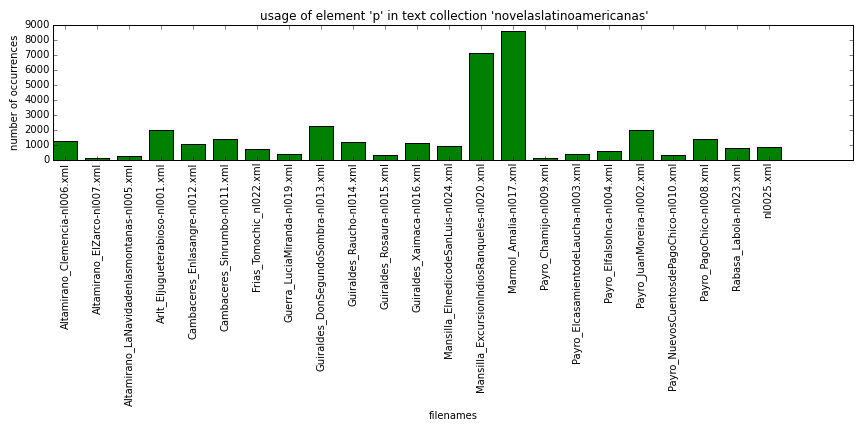
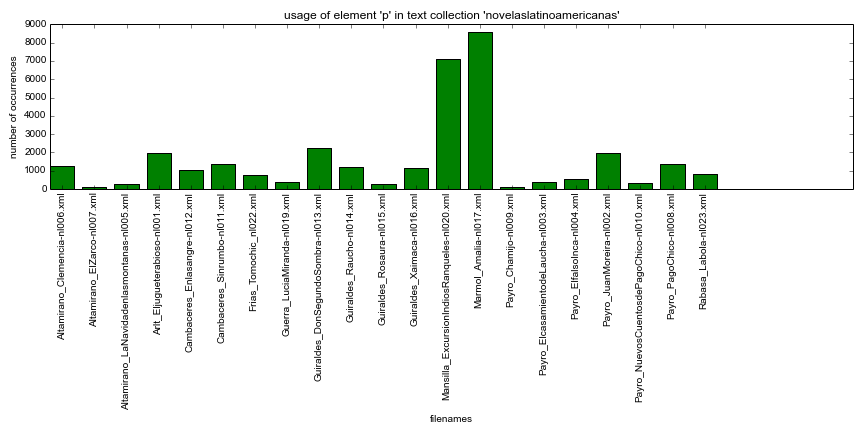
filename mit os.path.basename finden

Changed region(s): [[0.0, 0.0301, 0.9688, 0.9931]]

diff --git a/elements_used/elements-used.py b/elements_used/elements-used.py
@@ -21,6 +21,7 @@ Created on Thu May 21 15:57:56 2015
 # Import statements   #
 #######################
 
+import os
 import glob
 import json
 import numpy as np
@@ -65,7 +66,8 @@ def get_fileinfos(collection_name):
     fileinfos = {}    
     # loop trough each file in the collection
     for filepath in glob.glob(pathpattern):
-        filename = re.search("[A-Za-z0-9_-]+\.xml$", filepath).group(0)
+        filename2 = os.path.basename(filepath)
+        print(filename2)
         
         xml = etree.parse(filepath)
         namespaces = {"tei":"http://www.tei-c.org/ns/1.0"}
